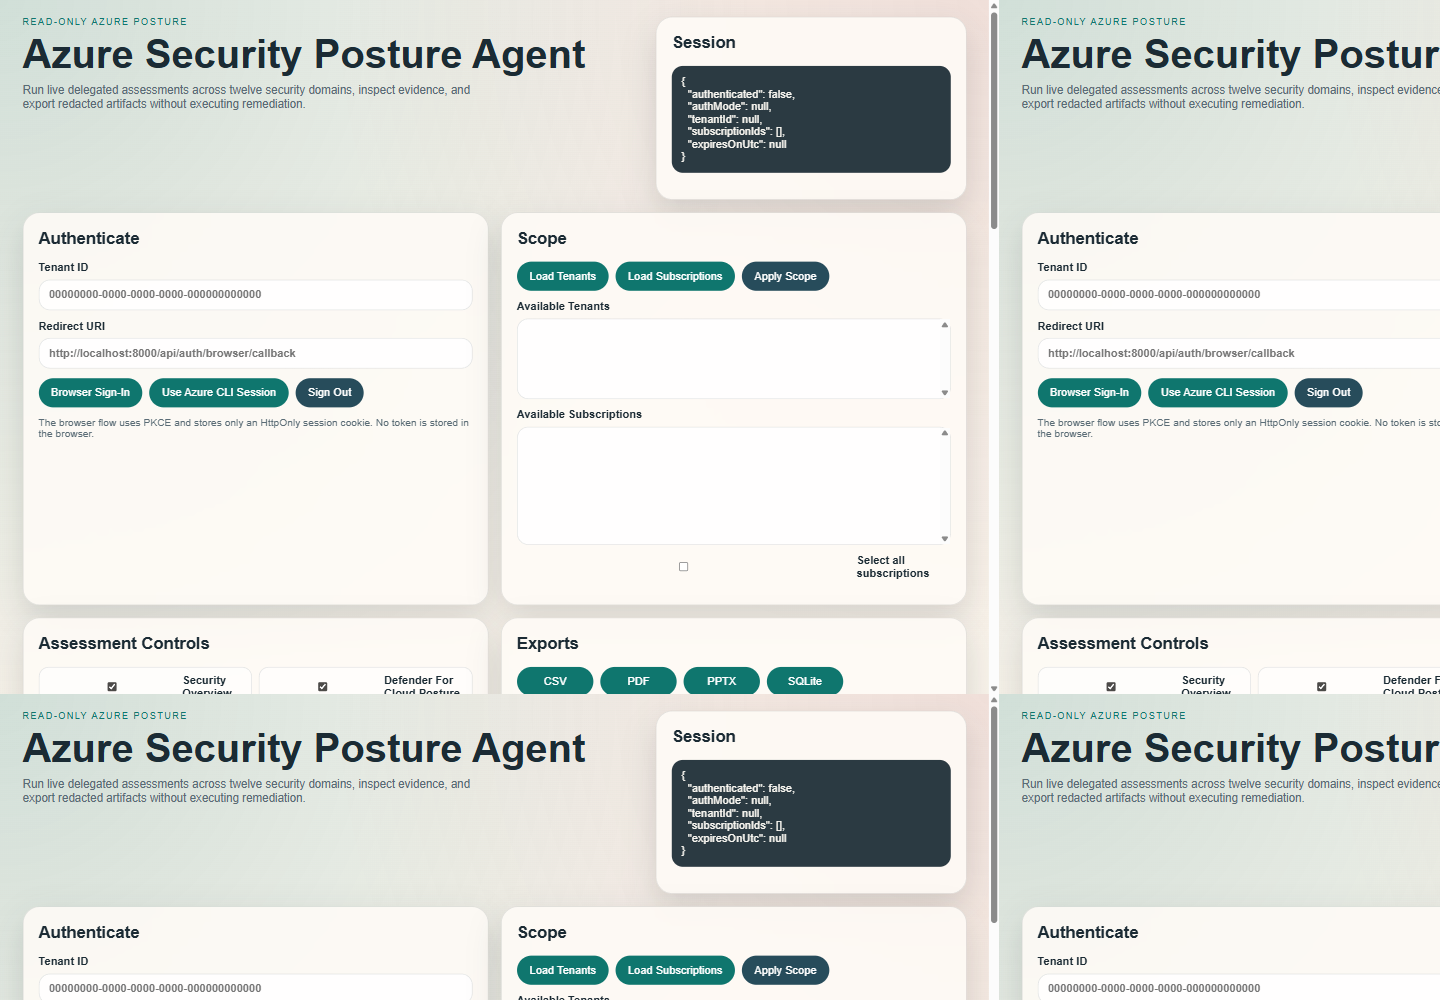
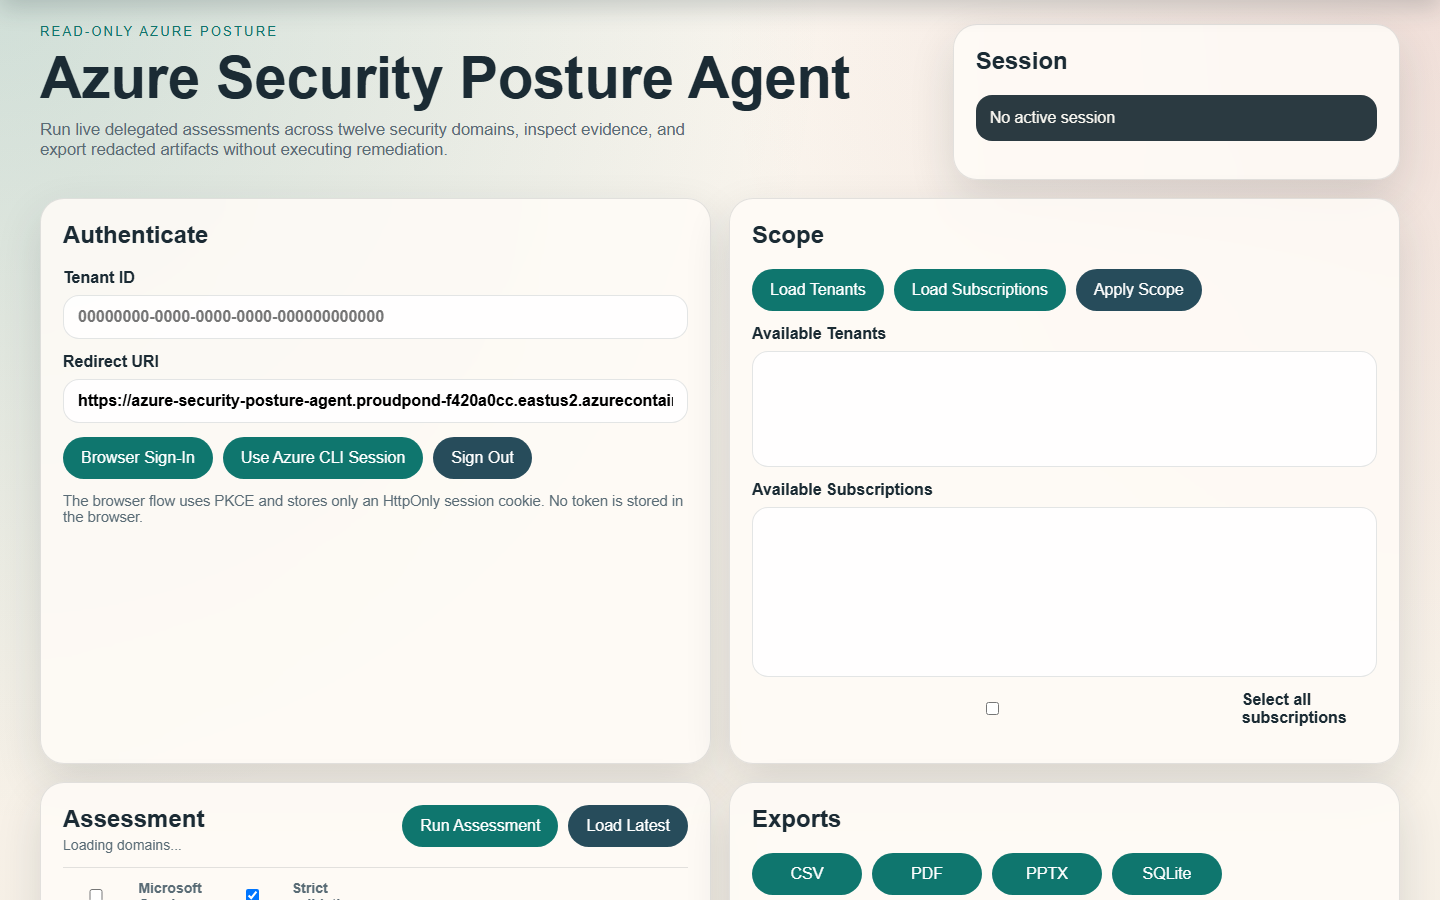
Document complete deployment and regeneration workflows
Expand the project README with a deployment-options matrix for the live dashboard, GitHub Azure plus M365 package workflow, ARM Deploy to Azure flow, delegated Microsoft 365 installation, and local PowerShell bootstrap.

Refresh the complete GitHub Copilot regeneration prompt so recreated projects preserve browser ID-token validation, opaque ARM access-token handling, shared findings/recommendation filters, and evidence-linked plain-language fix guides with effort estimates and Microsoft Learn references.

Replace stale contact-sheet images with clean, customer-data-free screenshots captured from the deployed Container App at desktop and mobile viewport sizes.

Add a fail-fast release gate to the manual Azure/M365 GitHub workflow so Python compilation, all tests, and Bicep compilation complete before Azure authentication or resource mutation.

Validation:
- 25 pytest tests passed
- Python application and authentication modules compiled
- Bicep template compiled
- deterministic six-file M365 package generated
- workflow YAML and deployment entry points parsed
- README assets and live Azure/template links returned HTTP 200
- desktop and mobile screenshot dimensions verified

diff --git a/README.md b/README.md
@@ -1,11 +1,23 @@
 # Azure Security Posture Agent
 
 [![Validate](https://github.com/jwgmpi-wolff/azure-security-posture-agent/actions/workflows/validate.yml/badge.svg)](https://github.com/jwgmpi-wolff/azure-security-posture-agent/actions/workflows/validate.yml)
+[![Open live dashboard](https://img.shields.io/badge/Open-Live%20dashboard-0F766E?logo=microsoftazure&logoColor=white)](https://azure-security-posture-agent.proudpond-f420a0cc.eastus2.azurecontainerapps.io/)
 [![Deploy Azure + M365 Package](https://img.shields.io/badge/Deploy-Azure%20%2B%20M365%20package-0078D4?logo=microsoftazure&logoColor=white)](https://github.com/jwgmpi-wolff/azure-security-posture-agent/actions/workflows/deploy-azure-m365.yml)
 [![Deploy infrastructure to Azure](https://aka.ms/deploytoazurebutton)](https://portal.azure.com/#create/Microsoft.Template/uri/https%3A%2F%2Fraw.githubusercontent.com%2Fjwgmpi-wolff%2Fazure-security-posture-agent%2Fmain%2Finfra%2Fazuredeploy.json)
+[![Install in Microsoft 365](https://img.shields.io/badge/Install-Microsoft%20365-5E5E5E?logo=microsoft365&logoColor=white)](#install-in-microsoft-365-copilot)
 [![Run locally](https://img.shields.io/badge/Run-locally-127C75?logo=powershell&logoColor=white)](#deploy-locally)
 
 A live-data-only, read-only Azure security assessment service with a FastAPI API, responsive browser dashboard, evidence-backed exports, and a Microsoft 365 Copilot declarative agent. It uses the signed-in user's delegated Azure RBAC and never executes remediation.
+
+## Deployment Options
+
+| Entry point | Functionality | Required boundary |
+| --- | --- | --- |
+| **Open live dashboard** | Opens the currently deployed Azure Container App. | Browser sign-in and delegated Azure RBAC are still required for assessment data. |
+| **Deploy Azure + M365 Package** | Runs the manual GitHub workflow, validates the release, deploys Azure resources and application code, runs smoke tests, and uploads the generated M365 package. | Requires approved `production` environment secrets and inputs. Interactive M365 installation remains a workstation step. |
+| **Deploy to Azure** | Opens the Azure portal with the versioned ARM template. | Provisions infrastructure only; image build, Entra registration, OAuth vault, and M365 installation are intentionally separate. |
+| **Install in Microsoft 365** | Jumps to the delegated Agents Toolkit package and installation workflow. | Requires an existing OAuth vault reference and interactive M365 sign-in. |
+| **Run locally** | Jumps to the PowerShell bootstrap that installs, validates, opens, and runs the app at `http://127.0.0.1:8010`. | GitHub cannot execute local scripts from a badge; run the shown command from PowerShell 7. |
 
 ## Screenshots
 
@@ -17,7 +29,7 @@ A live-data-only, read-only Azure security assessment service with a FastAPI API
 
 <img src="docs/screenshots/dashboard-mobile.png" alt="Azure Security Posture Agent mobile dashboard" width="390">
 
-The screenshots show the safe pre-authentication state and contain no tenant or customer data.
+The screenshots are single-frame captures of the deployed responsive dashboard at 1440x900 and 390x844. They show the safe pre-authentication state and contain no tenant or customer data.
 
 ## What It Does
 
@@ -26,6 +38,8 @@ The screenshots show the safe pre-authentication state and contain no tenant or 
 - Returns findings only when they include source metadata, observation time, evidence ID, and embedded evidence.
 - Records permission limits and upstream failures as structured partial failures instead of clean results.
 - Exports deterministic, redacted CSV, PDF, PowerPoint, and SQLite artifacts.
+- Applies one severity/domain selection to both findings and their linked recommendations.
+- Opens an evidence-linked fix guide with plain-language steps, effort estimates, detailed actions, and Microsoft Learn references without executing remediation.
 - Supports browser PKCE, local Azure CLI sessions, and Microsoft 365 Copilot OAuth with confidential-client OBO to ARM.
 - Supports explicit cross-tenant context validation without relabeling or reusing a token from the wrong tenant.
 
@@ -216,6 +230,7 @@ SECURITY RULES
 - Runtime assessment access uses the signed-in user's delegated Azure RBAC. Managed identity is limited to ACR pull.
 - Never expose access/refresh tokens, authorization headers, cookies, client secrets, keys, certificates, or connection strings in responses, browser storage, logs, packages, screenshots, or exports.
 - Browser auth uses authorization code with PKCE and an opaque Secure/HttpOnly/SameSite cookie. Keep tokens server-side in memory.
+- Validate the browser ID token against the exact application client ID, issuer, signature, expiry, and selected tenant. Treat the Microsoft-owned ARM access token as opaque client material and use it only for ARM requests.
 - Copilot validates token signature, issuer, audience, expiry, and tenant, then uses confidential-client OAuth OBO for ARM. Never reuse the API token against ARM.
 - Cross-tenant context is token-bound. A requested tenant must equal token tid. On mismatch return 403 instructing the user to reconnect OAuth in the requested tenant. Never relabel a token or substitute managed identity.
 - Before every bearer assessment, enumerate live ARM subscriptions and reject IDs outside delegated access.
@@ -248,7 +263,7 @@ GET /api/copilot/assessment-summary, /security-findings, /recommendations
 GET Copilot auth context returns tokenTenantId, selectedTenantId, discoverable tenants/subscriptions, source endpoints, and safe reauthentication guidance. POST validates tenant/subscriptions statelessly. POST assessment accepts cookie or bearer auth and does not persist ephemeral bearer sessions.
 
 DASHBOARD
-Create app/static/index.html, styles.css, app.js as the usable first screen. Include session status, tenant/redirect inputs, browser/CLI auth, tenant/subscription selection, twelve-domain controls, strict validation, run controls, exports, summary, findings, evidence, partial failures, recommendations, and status. Make it accessible and responsive at 390px and desktop widths. Never store tokens in JavaScript.
+Create app/static/index.html, styles.css, app.js as the usable first screen. Include session status, tenant/redirect inputs, browser/CLI auth, tenant/subscription selection, twelve-domain controls, strict validation, run controls, exports, summary, findings, evidence, partial failures, recommendations, and status. Make it accessible and responsive at 390px and desktop widths. Never store tokens in JavaScript. A severity or domain selection in Findings must apply to both findings and their evidence-linked recommendations. Each recommendation must expose a Fix Guide dialog with numbered third-grade reading-level steps, an effort estimate, exact detailed actions, and relevant Microsoft Learn links; it must never execute those actions.
 
 EXPORTS
 CSV separates finding/recommendation records and serializes evidence deterministically. PDF includes scope, summary, findings, recommendations, evidence, and gaps. PPTX has exactly ten executive slides. SQLite normalizes assessment_runs, tenants, subscriptions, resources, findings, recommendations, evidence, api_query_log, export_artifacts. Return 404 before an assessment.
